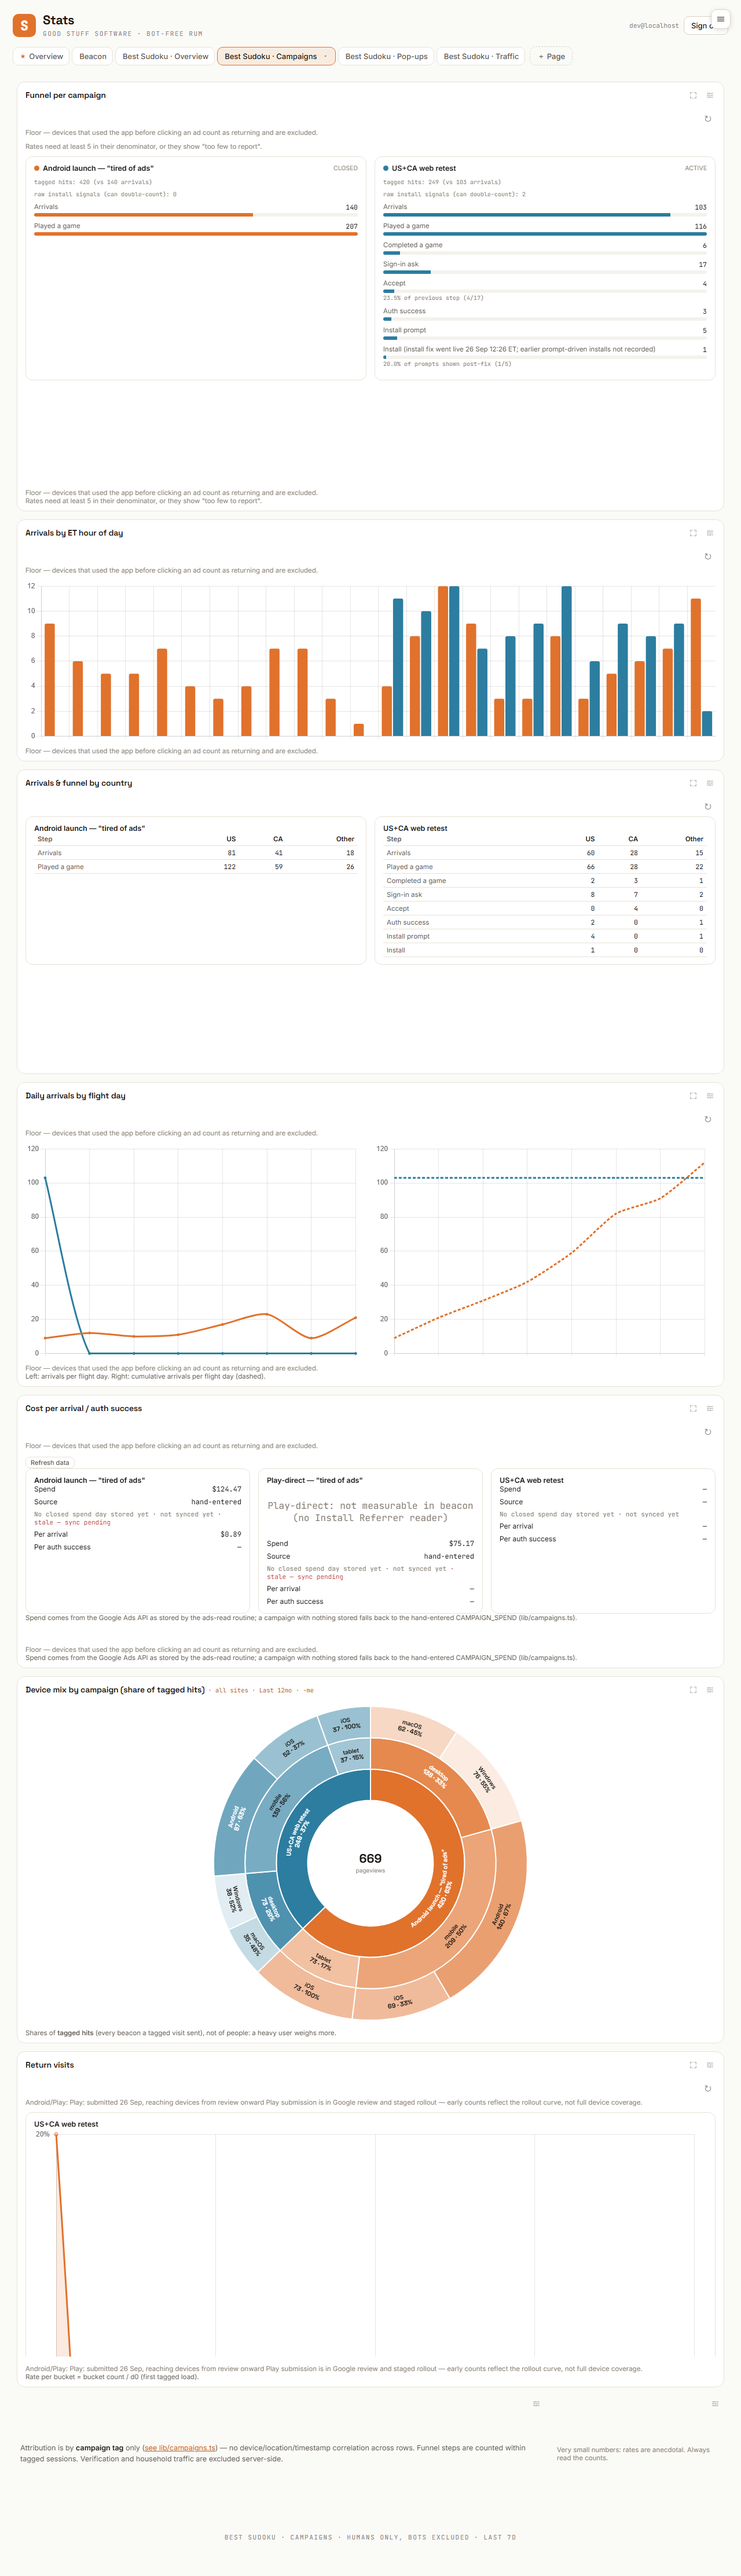
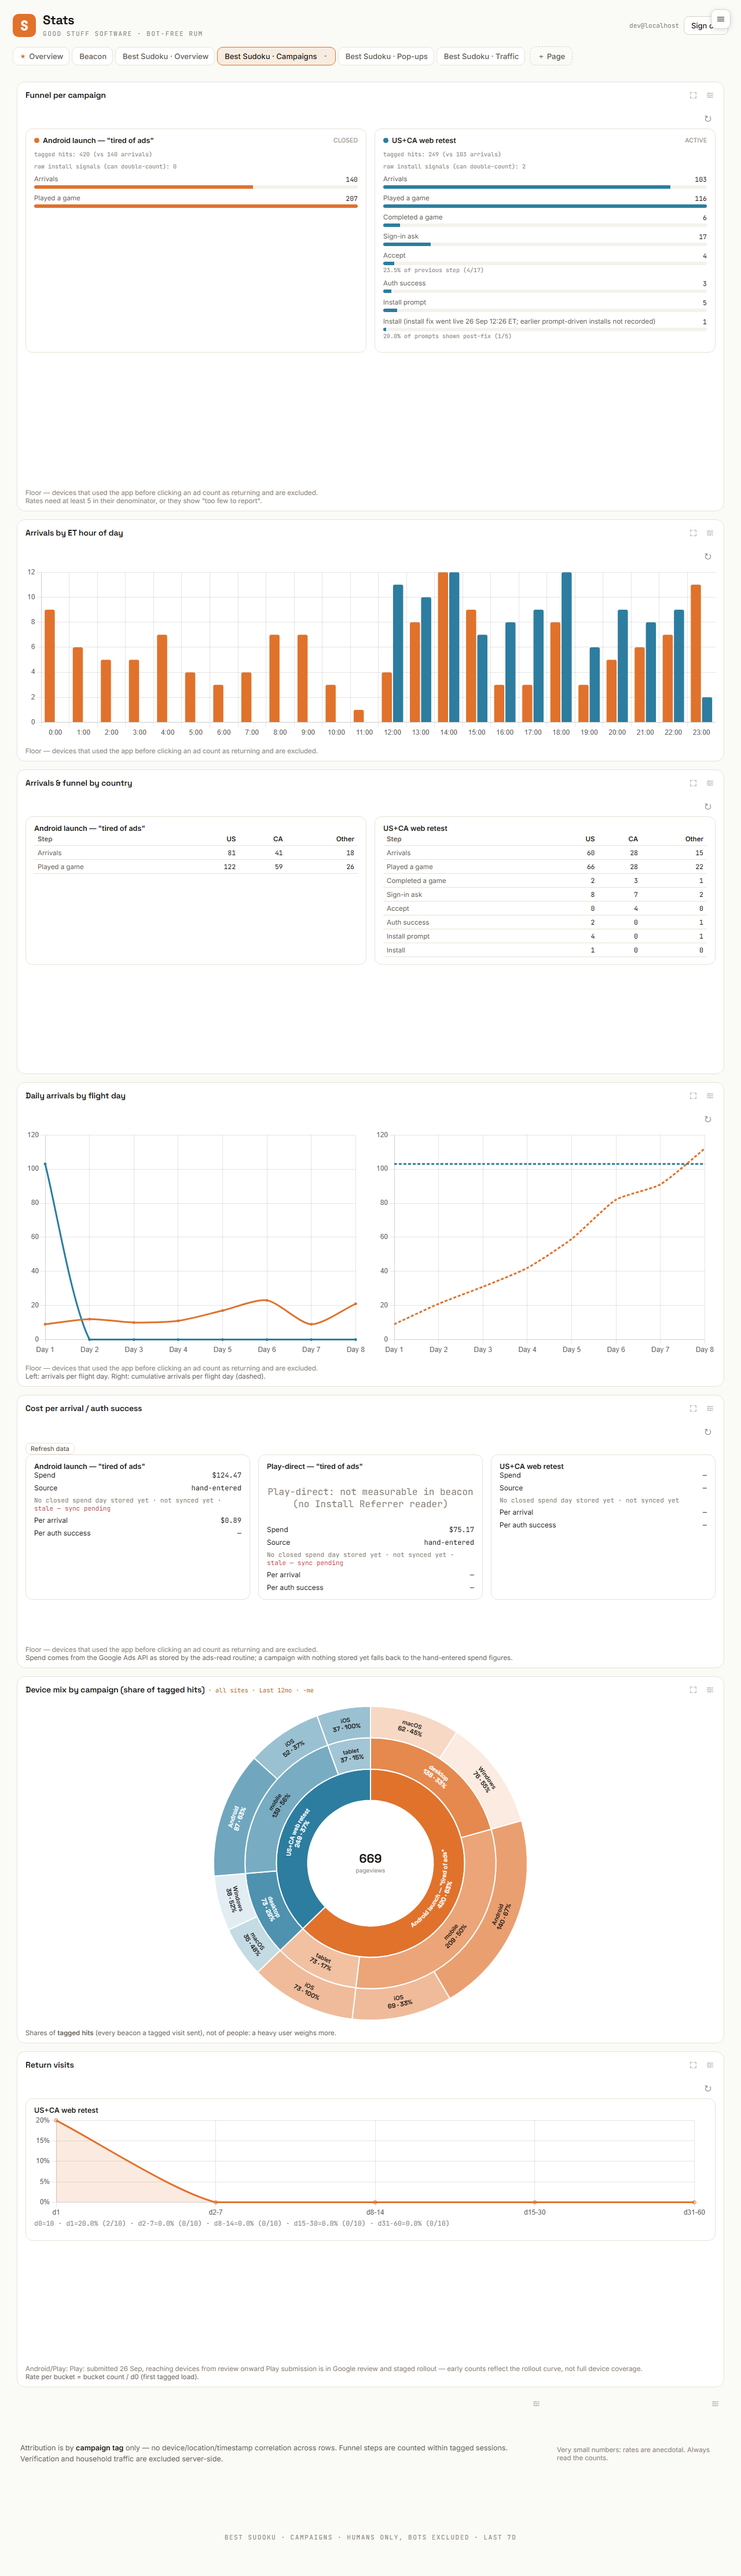
fix(notes): plain-language captions, one note per card, return chart size
- Registry notes no longer name code: the attribution, spend and timeline
  captions and the raw-install note are reworded, as is the release
  panel's empty state. A test asserts that no registry note or data
  caption matches lib/, .ts or a backtick.
- The campaigns widget bodies skip an inline note that the card already
  shows as an attached caption, so each note appears once per card.
- The Return visits chart box gets a definite height. Inside an
  auto-height grid column, height:100% let the responsive canvas grow
  without bound. This was a rendering bug, not a fixture artefact.
- The sign-in eligibility title is shortened to 'Sign-in eligibility'
  (default, caveat-title migration, and v9 for the untouched old title).

diff --git a/src/components/widgets/CampaignsWidgetBody.vue b/src/components/widgets/CampaignsWidgetBody.vue
@@ -19,6 +19,9 @@ import NoteBlock from '../NoteBlock.vue'
 import AdsRefreshButton from '../AdsRefreshButton.vue'
 
 const props = defineProps<{ widget: Widget }>()
+// A note the card already shows as an attached caption (widget.notes, rendered by ChartCard.vue)
+// is not repeated inline here: each note appears once per card.
+const inCaptions = (noteId: string) => (props.widget.notes ?? []).includes(noteId)
 
 const { campaigns, dataByCampaign, loading, error, reload } = useCampaignsData(() => props.widget.campaignIds)
 
@@ -198,8 +201,8 @@ function returnChartConfig(c: CampaignFlight): ChartConfiguration | null {
 
       <!-- funnel -->
       <template v-if="widget.view === 'funnel'">
-        <NoteBlock note-id="arrivals-caveat" class="caption" />
-        <NoteBlock note-id="min-cohort-caveat" class="caption" />
+        <NoteBlock v-if="!inCaptions('arrivals-caveat')" note-id="arrivals-caveat" class="caption" />
+        <NoteBlock v-if="!inCaptions('min-cohort-caveat')" note-id="min-cohort-caveat" class="caption" />
         <div class="funnel-grid">
           <div v-for="(c, i) in beaconCampaigns" :key="c.id" class="funnel-col" :style="{ '--accent': campaignColor(i) }">
             <div class="funnel-head">
@@ -262,7 +265,7 @@ function returnChartConfig(c: CampaignFlight): ChartConfiguration | null {
 
       <!-- hourOfDay -->
       <template v-else-if="widget.view === 'hourOfDay'">
-        <NoteBlock note-id="arrivals-caveat" class="caption" />
+        <NoteBlock v-if="!inCaptions('arrivals-caveat')" note-id="arrivals-caveat" class="caption" />
         <div class="chart-box"><BaseChart v-if="hourChartConfig" :config="hourChartConfig" :drill-open="false" @point="() => {}" /></div>
       </template>
 
@@ -294,12 +297,12 @@ function returnChartConfig(c: CampaignFlight): ChartConfiguration | null {
 
       <!-- flightDay -->
       <template v-else-if="widget.view === 'flightDay'">
-        <NoteBlock note-id="arrivals-caveat" class="caption" />
+        <NoteBlock v-if="!inCaptions('arrivals-caveat')" note-id="arrivals-caveat" class="caption" />
         <div class="two-col">
           <div class="chart-box"><BaseChart v-if="dailyChartConfig" :config="dailyChartConfig" :drill-open="false" @point="() => {}" /></div>
           <div class="chart-box"><BaseChart v-if="cumulativeChartConfig" :config="cumulativeChartConfig" :drill-open="false" @point="() => {}" /></div>
         </div>
-        <NoteBlock note-id="flight-day-caption" class="caption" />
+        <NoteBlock v-if="!inCaptions('flight-day-caption')" note-id="flight-day-caption" class="caption" />
         <template v-for="c in beaconCampaigns" :key="`seg-${c.id}`">
           <div v-if="dataByCampaign[c.id]?.segments" class="segment mono">
             <p class="caption">
@@ -318,7 +321,7 @@ function returnChartConfig(c: CampaignFlight): ChartConfiguration | null {
 
       <!-- cost -->
       <template v-else-if="widget.view === 'cost'">
-        <NoteBlock note-id="arrivals-caveat" class="caption" />
+        <NoteBlock v-if="!inCaptions('arrivals-caveat')" note-id="arrivals-caveat" class="caption" />
         <AdsRefreshButton :campaign-ids="campaigns.map((c) => c.id)" @refreshed="(r) => r.refreshed && reload()" />
         <div class="cost-grid">
           <div v-for="c in campaigns" :key="c.id" class="cost-card">
@@ -343,7 +346,7 @@ function returnChartConfig(c: CampaignFlight): ChartConfiguration | null {
             </div>
           </div>
         </div>
-        <NoteBlock v-if="campaigns.some((c) => dataByCampaign[c.id]?.spend == null)" note-id="spend-source" class="caption" />
+        <NoteBlock v-if="!inCaptions('spend-source') && campaigns.some((c) => dataByCampaign[c.id]?.spend == null)" note-id="spend-source" class="caption" />
       </template>
       <!-- The ads-read routine's readings log is its own movable widget now (dataset
            'ads-readings', dispatched by ChartCard.vue via AdsReadingsWidgetCard), not inline
@@ -351,7 +354,7 @@ function returnChartConfig(c: CampaignFlight): ChartConfiguration | null {
 
       <!-- returns -->
       <template v-else-if="widget.view === 'returns'">
-        <NoteBlock note-id="play-tracking-status" class="caption" />
+        <NoteBlock v-if="!inCaptions('play-tracking-status')" note-id="play-tracking-status" class="caption" />
         <!-- A campaign with no /return/ rows AT ALL yet (not instrumented for its flight, or
              instrumented but genuinely zero rows so far — d0 is the beacon's own first-load
              denominator) is not drawn, rather than rendered as an empty/broken chart (owner
@@ -378,7 +381,7 @@ function returnChartConfig(c: CampaignFlight): ChartConfiguration | null {
             </template>
           </div>
         </div>
-        <NoteBlock v-if="returnCampaigns.length" note-id="return-rate-caption" class="caption" />
+        <NoteBlock v-if="!inCaptions('return-rate-caption') && returnCampaigns.length" note-id="return-rate-caption" class="caption" />
       </template>
 
       <p v-else class="state mono">Unknown campaigns panel "{{ widget.view }}"</p>
@@ -510,8 +513,12 @@ function returnChartConfig(c: CampaignFlight): ChartConfiguration | null {
   height: 100%;
   min-height: 200px;
 }
+/* A definite height: inside a return-visits column (an auto-height grid item) `height: 100%`
+   resolves to auto, and a responsive Chart.js canvas then keeps growing with its own box, so
+   the plot stretched far below the card and only the top of the y-axis showed. */
 .chart-box.small {
-  min-height: 150px;
+  height: 180px;
+  min-height: 0;
 }
 .two-col {
   display: grid;

diff --git a/src/lib/notes.ts b/src/lib/notes.ts
@@ -35,7 +35,6 @@ import {
   PLAY_TRACKING_ACTIVATION_DATE_ET,
   TRACKING_ACTIVATION_DATE_ET,
   MIN_COHORT,
-  RAW_INSTALL_DEDUPE_NOTE,
 } from './popupEvents'
 import { ARRIVALS_CAVEAT } from './campaigns'
 import { tokenizeAndInterpolate, toPlainText } from './textLite'
@@ -165,7 +164,7 @@ export const NOTES_REGISTRY: Record<string, NoteDef> = {
   // copy). ──────────────────────────────────────────────────────────────────────────────
   'campaigns-attribution-scope': {
     id: 'campaigns-attribution-scope',
-    text: 'Attribution is by **campaign tag** only ([see lib/campaigns.ts](https://github.com/GoodStuffSoftware/gss-stats/blob/main/src/lib/campaigns.ts)) — no device/location/timestamp correlation across rows. Funnel steps are counted within tagged sessions. Verification and household traffic are excluded server-side.',
+    text: 'Attribution is by **campaign tag** only — no device/location/timestamp correlation across rows. Funnel steps are counted within tagged sessions. Verification and household traffic are excluded server-side.',
     kind: 'text',
     severity: 'info',
     scopes: ['campaigns'],
@@ -182,7 +181,7 @@ export const NOTES_REGISTRY: Record<string, NoteDef> = {
     // v0.4.0: spend comes from the ads-read routine's own store (Google Ads API) first,
     // falling back to the hand-entered CAMPAIGN_SPEND (lib/campaigns.ts) only for a
     // campaign with nothing stored yet — each campaign's own "Source" row above says which.
-    text: 'Spend comes from the Google Ads API as stored by the ads-read routine; a campaign with nothing stored falls back to the hand-entered CAMPAIGN_SPEND (lib/campaigns.ts).',
+    text: 'Spend comes from the Google Ads API as stored by the ads-read routine; a campaign with nothing stored yet falls back to the hand-entered spend figures.',
     kind: 'note',
     severity: 'info',
     scopes: ['campaigns'],
@@ -210,14 +209,16 @@ export const NOTES_REGISTRY: Record<string, NoteDef> = {
   },
   'overview-timeline-caption': {
     id: 'overview-timeline-caption',
-    text: 'Shaded bands = campaign flights. Dashed labeled lines = major releases / tracking-activation. Short ticks = other releases (see `lib/releases.ts` for versions).',
+    text: 'Shaded bands = campaign flights. Dashed labelled lines = major releases and go-live moments. Short ticks = other releases. Every marker and band is listed under the chart.',
     kind: 'note',
     severity: 'info',
     scopes: ['overview'],
   },
   'raw-install-dedupe': {
     id: 'raw-install-dedupe',
-    text: RAW_INSTALL_DEDUPE_NOTE,
+    // Plain wording for the screen (RAW_INSTALL_DEDUPE_NOTE, with its raw path, stays the ads
+    // routine's report text).
+    text: 'Raw install signals: duplicate rows from several open tabs stopped being sent (v1.95.6), so expect a small drop, mainly on desktop Chrome and Edge. The main install count is unaffected.',
     kind: 'note',
     severity: 'info',
     scopes: ['overview'],

diff --git a/src/lib/defaults.test.ts b/src/lib/defaults.test.ts
@@ -410,7 +410,7 @@ describe('defaultBestSudokuPopupsWidgets — one bar chart, a valid-rates table,
 
   it('the eligibility bar keeps its plain title and the signin-eligible-caveat caption', () => {
     const bd = widgets.find((w) => w.id === 'pu-eligible-bd')!
-    expect(bd.title).toBe('Sign-in eligibility — earned / capped / unearned')
+    expect(bd.title).toBe('Sign-in eligibility')
     expect(bd.title).not.toContain(SIGNIN_ELIGIBLE_CAVEAT)
     expect(bd.notes).toEqual(['signin-eligible-caveat'])
   })
@@ -457,6 +457,9 @@ describe('normalizeConfig — v9 migration (Pop-ups page + device mix)', () => {
     // the kept eligibility bar takes its new slot beside the table; the owner's chart sits below
     const elig = pu.widgets.find((w) => w.id === 'pu-eligible-bd')!
     expect({ x: elig.x, y: elig.y, w: elig.w, h: elig.h }).toEqual({ x: 8, y: 11, w: 4, h: 7 })
+    expect(elig.title).toBe('x') // the fixture's own (owner-edited) title is kept
+    const oldTitled = migratePopupsPageV9(page({ id: 'bsk-popups', name: 'P', widgets: [widget({ id: 'pu-eligible-bd', title: 'Sign-in eligibility — earned / capped / unearned' })] }))
+    expect(oldTitled.widgets.find((w) => w.id === 'pu-eligible-bd')!.title).toBe('Sign-in eligibility')
     const blockBottom = Math.max(...pu.widgets.slice(0, 3).map((w) => w.y + w.h))
     expect(mine.y).toBeGreaterThanOrEqual(blockBottom)
   })
@@ -576,7 +579,7 @@ describe('migratePopupCaveatTitles', () => {
     const bd = widget({ id: 'pu-eligible-bd', title: `Sign-in eligibility — earned / capped / unearned (${SIGNIN_ELIGIBLE_CAVEAT})`, type: 'bar', dataset: 'popup' })
     const rate = widget({ id: 'pu-eligible-rate', title: `Sign-in eligibility rate (${SIGNIN_ELIGIBLE_CAVEAT})`, type: 'rate', dataset: 'popup' })
     const [out] = migratePopupCaveatTitles([popupPage([bd, rate])])
-    expect(out.widgets[0].title).toBe('Sign-in eligibility — earned / capped / unearned')
+    expect(out.widgets[0].title).toBe('Sign-in eligibility')
     expect(out.widgets[0].notes).toEqual(['signin-eligible-caveat'])
     expect(out.widgets[1].title).toBe('Sign-in eligibility rate')
     expect(out.widgets[1].notes).toEqual(['signin-eligible-caveat'])
@@ -639,7 +642,7 @@ describe('migratePopupCaveatTitles', () => {
     const norm = normalizeConfig(raw)
     const popupsPage = norm.pages.find((p) => isBestSudokuPopupsPage(p))!
     const w = popupsPage.widgets.find((w) => w.id === 'pu-eligible-bd')!
-    expect(w.title).toBe('Sign-in eligibility — earned / capped / unearned')
+    expect(w.title).toBe('Sign-in eligibility')
     expect(w.notes).toEqual(['signin-eligible-caveat'])
   })
 })

diff --git a/src/lib/defaults.ts b/src/lib/defaults.ts
@@ -184,7 +184,7 @@ export function defaultBestSudokuPopupsWidgets(): Widget[] {
       h: 11,
     }),
     w({ id: 'pu-rates', title: 'Rates (valid ratios only)', type: 'rateTable', dataset: 'popup', dimension: '', metric: 'pageviews', limit: 1, notes: ['min-cohort-caveat'], x: 0, y: 11, w: 8, h: 7 }),
-    w({ id: 'pu-eligible-bd', title: 'Sign-in eligibility — earned / capped / unearned', type: 'bar', dataset: 'popup', dimension: 'eligible', metric: 'pageviews', limit: 3, notes: ['signin-eligible-caveat'], x: 8, y: 11, w: 4, h: 7 }),
+    w({ id: 'pu-eligible-bd', title: 'Sign-in eligibility', type: 'bar', dataset: 'popup', dimension: 'eligible', metric: 'pageviews', limit: 3, notes: ['signin-eligible-caveat'], x: 8, y: 11, w: 4, h: 7 }),
   ]
 }
 
@@ -204,6 +204,7 @@ export function popupsPageV8FactoryIds(): string[] {
   return ids
 }
 const POPUPS_V9_KEPT_IDS = new Set(['pu-eligible-bd'])
+const POPUPS_V8_ELIGIBILITY_TITLE = 'Sign-in eligibility — earned / capped / unearned'
 
 /** v9: rebuild a saved Pop-ups page. Removes the pre-v9 generated tiles (by id, the owner's
  * request: the page "makes no sense") and adds the new bar chart + rate table on top. The kept
@@ -220,7 +221,15 @@ export function migratePopupsPageV9(page: DashboardPage): DashboardPage {
   const slot = (id: string) => defaults.find((d) => d.id === id)!
   const keptFactory = survivors
     .filter((wd) => POPUPS_V9_KEPT_IDS.has(wd.id))
-    .map((wd) => ({ ...wd, x: slot(wd.id).x, y: slot(wd.id).y, w: slot(wd.id).w, h: slot(wd.id).h }))
+    .map((wd) => ({
+      ...wd,
+      // The old generated title truncated in its narrower slot; a title the owner edited stays.
+      title: wd.title === POPUPS_V8_ELIGIBILITY_TITLE ? slot(wd.id).title : wd.title,
+      x: slot(wd.id).x,
+      y: slot(wd.id).y,
+      w: slot(wd.id).w,
+      h: slot(wd.id).h,
+    }))
   const own = survivors.filter((wd) => !POPUPS_V9_KEPT_IDS.has(wd.id))
   const blockH = [...fresh, ...keptFactory].reduce((m, wd) => Math.max(m, wd.y + wd.h), 0)
   const minOwnY = own.reduce((m, wd) => Math.min(m, wd.y), Infinity)
@@ -257,7 +266,7 @@ function popupTitleMigrations(): PopupTitleMigration[] {
     {
       id: 'pu-eligible-bd',
       oldTitle: `Sign-in eligibility — earned / capped / unearned${SIGNIN_ELIGIBLE_TITLE_OLD_SUFFIX}`,
-      newTitle: 'Sign-in eligibility — earned / capped / unearned',
+      newTitle: 'Sign-in eligibility',
       noteId: 'signin-eligible-caveat',
     },
     {

diff --git a/src/lib/notes.test.ts b/src/lib/notes.test.ts
@@ -1,6 +1,6 @@
 import { describe, expect, it } from 'vitest'
 import { NOTES_REGISTRY, getNote, noteRawText, isNoteActive, defaultNoteIdsForScope, noteOptions, widgetCaptionNoteIds } from './notes'
-import { MIN_COHORT } from './popupEvents'
+import { MIN_COHORT, INSTALL_FIX_NOTE, INSTALL_OUTCOME_GAP_LABEL, INSTALL_GAP_BEFORE_FIX_LABEL, installOutcomeGapNote, POPUP_PAGE_NOTE, SMALL_SAMPLE_NOTE, SIGNIN_ELIGIBLE_CAVEAT, POPUP_RATE_SPECS } from './popupEvents'
 
 describe('notes registry — lookups', () => {
   it('getNote returns the definition for a known id, undefined for an unknown one', () => {
@@ -112,5 +112,29 @@ describe('noteOptions — ChartEditor picker', () => {
       expect(typeof o.label).toBe('string')
       expect(o.label.length).toBeGreaterThan(0)
     }
+  })
+})
+
+// User-facing text never names code: no module paths, no source files, no backtick code spans
+// (owner review, 2026-09-27: "see lib/releases.ts" and "(lib/campaigns.ts)" showed on screen).
+describe('notes registry — plain language only', () => {
+  const CODE_LIKE = /\blib\/|\.ts\b|`/
+  it('no registry note text names a file, a module path or a code span', () => {
+    for (const id of Object.keys(NOTES_REGISTRY)) {
+      expect(noteRawText(id), id).not.toMatch(CODE_LIKE)
+    }
+  })
+  it('nor does any caption that travels with API data', () => {
+    const texts = [
+      INSTALL_FIX_NOTE,
+      INSTALL_OUTCOME_GAP_LABEL,
+      INSTALL_GAP_BEFORE_FIX_LABEL,
+      installOutcomeGapNote({ startMs: 0, endMs: Date.now() }),
+      POPUP_PAGE_NOTE,
+      SMALL_SAMPLE_NOTE,
+      SIGNIN_ELIGIBLE_CAVEAT,
+      ...POPUP_RATE_SPECS.map((s) => s.label),
+    ]
+    for (const t of texts) expect(t).not.toMatch(CODE_LIKE)
   })
 })

diff --git a/src/components/widgets/OverviewWidgetBody.vue b/src/components/widgets/OverviewWidgetBody.vue
@@ -352,7 +352,7 @@ const timelineConfig = computed<ChartConfiguration | null>(() => {
             </div>
           </div>
         </template>
-        <p v-else class="caption">No dated release yet — set a release date in <code>src/lib/releases.ts</code> to populate this panel.</p>
+        <p v-else class="caption">No dated release yet. This panel fills in once a release has a date.</p>
       </template>
 
       <p v-else class="state mono">Unknown overview panel "{{ widget.view }}"</p>

diff --git a/CHANGELOG.md b/CHANGELOG.md
@@ -33,6 +33,12 @@ All notable changes to **gss-stats** are documented here. The format follows
   card's edge and get clipped at narrow widths.
 - **A chart with its own filter no longer fails to draw** when that filter was set up from the
   current site picker rather than the old single-site one.
+- **Captions and notes read as plain language.** None of them names a source file any more.
+- **Each note shows once per card.** The Campaigns cards no longer repeat a caveat at the top
+  and again under the chart.
+- **The Return visits chart fits its card.** Its plot used to stretch far below the card, so
+  only the top of the axis showed.
+- **The sign-in eligibility chart has a short title** that fits its card.
 
 ## [0.8.0] — 2026-09-26
 
